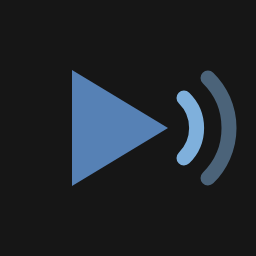
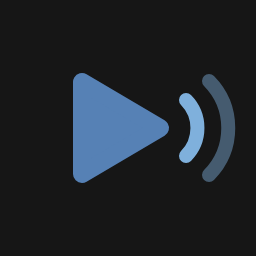
v0.2.5: full brand pass
Banner, social card, and player product shot (HTML/SVG sources in assets/,
rendered via Playwright); refined icon; branded README with badges; repo
manifest gains repository/homepage/bugs. Strip absolute build paths from the
webview bundle so no local filesystem paths ship in the vsix; assets/
excluded from the package.

diff --git a/assets/player.html b/assets/player.html
@@ -1,0 +1,116 @@
+<!doctype html>
+<html>
+<head>
+<meta charset="utf-8" />
+<style>
+  /* Mirror of the VS Code dark-modern theme variables the real player consumes,
+     with narrado's dusk blue as the action color. The player markup/styles below
+     match src/webview/player.ts + media/player.css. */
+  :root {
+    --vscode-editor-background: #1f1f1f;
+    --vscode-foreground: #cccccc;
+    --vscode-font-family: -apple-system, BlinkMacSystemFont, "Segoe UI", sans-serif;
+    --vscode-font-size: 13px;
+    --vscode-descriptionForeground: #9d9d9d;
+    --vscode-button-background: #5681b5;
+    --vscode-button-foreground: #ffffff;
+    --vscode-button-hoverBackground: #6890c2;
+    --vscode-button-secondaryBackground: #3a3d41;
+    --vscode-button-secondaryForeground: #cccccc;
+    --vscode-dropdown-background: #313131;
+    --vscode-dropdown-foreground: #cccccc;
+    --vscode-dropdown-border: #3c3c3c;
+    --vscode-widget-border: #3c3c3c;
+    --vscode-list-hoverBackground: #2a2d2e;
+    --vscode-list-activeSelectionBackground: rgba(86, 129, 181, 0.32);
+    --vscode-list-activeSelectionForeground: #ffffff;
+    --vscode-focusBorder: #5681b5;
+  }
+  html, body { margin: 0; padding: 0; background: #161616; }
+  .stage { width: 960px; padding: 36px; box-sizing: border-box; }
+  .window {
+    border: 1px solid #2e2e2e; border-radius: 12px; overflow: hidden;
+    box-shadow: 0 24px 60px rgba(0, 0, 0, 0.5);
+    background: var(--vscode-editor-background);
+  }
+  .chrome { display: flex; gap: 8px; padding: 13px 16px; background: #242424; border-bottom: 1px solid #2e2e2e; }
+  .dot { width: 12px; height: 12px; border-radius: 50%; }
+
+  /* === media/player.css === */
+  .body-clone {
+    background: var(--vscode-editor-background); color: var(--vscode-foreground);
+    font-family: var(--vscode-font-family); font-size: var(--vscode-font-size);
+  }
+  #app {
+    max-width: 560px; height: 560px; box-sizing: border-box; margin: 0 auto;
+    padding: 24px 16px 12px; display: flex; flex-direction: column; gap: 12px;
+  }
+  #title { margin: 0; font-size: 1.3em; font-weight: 600; overflow-wrap: anywhere; }
+  #status { min-height: 1.4em; color: var(--vscode-descriptionForeground); font-variant-numeric: tabular-nums; }
+  #controls { display: flex; align-items: center; gap: 12px; }
+  #controls button {
+    border: none; border-radius: 50%; cursor: pointer;
+    background: var(--vscode-button-background); color: var(--vscode-button-foreground);
+    display: inline-flex; align-items: center; justify-content: center;
+  }
+  #play { width: 56px; height: 56px; font-size: 22px; }
+  #stop {
+    width: 36px; height: 36px; font-size: 14px;
+    background: var(--vscode-button-secondaryBackground); color: var(--vscode-button-secondaryForeground);
+  }
+  #progress { margin-left: auto; color: var(--vscode-descriptionForeground); font-variant-numeric: tabular-nums; white-space: nowrap; }
+  #options { display: flex; gap: 8px; }
+  #options select {
+    flex: 1; min-width: 0; padding: 4px 6px;
+    background: var(--vscode-dropdown-background); color: var(--vscode-dropdown-foreground);
+    border: 1px solid var(--vscode-dropdown-border); border-radius: 2px;
+  }
+  #transcript { flex: 1; min-height: 0; overflow-y: hidden; border-top: 1px solid var(--vscode-widget-border); padding-top: 8px; }
+  .line { padding: 4px 8px; border-radius: 4px; cursor: pointer; line-height: 1.45; color: var(--vscode-descriptionForeground); opacity: 0.55; }
+  .line.ready { opacity: 1; color: var(--vscode-foreground); }
+  .line.active { background: var(--vscode-list-activeSelectionBackground); color: var(--vscode-list-activeSelectionForeground); opacity: 1; }
+</style>
+</head>
+<body>
+<div class="stage">
+  <div class="window">
+    <div class="chrome">
+      <div class="dot" style="background:#ff5f57"></div>
+      <div class="dot" style="background:#febc2e"></div>
+      <div class="dot" style="background:#28c840"></div>
+    </div>
+    <div class="body-clone">
+      <div id="app">
+        <h1 id="title">README.md</h1>
+        <div id="status">playing</div>
+        <div id="controls">
+          <button id="play">❚❚</button>
+          <button id="stop">■</button>
+          <span id="progress">4 / 14</span>
+        </div>
+        <div id="options">
+          <select><option>1×</option></select>
+          <select><option>Heart (US female)</option></select>
+        </div>
+        <div id="transcript">
+          <div class="line ready">narrado.</div>
+          <div class="line ready">Press play on your markdown.</div>
+          <div class="line ready">Narrado adds a play button to every markdown editor in VS Code and Cursor.</div>
+          <div class="line ready active">The document is read aloud with a natural neural voice, generated entirely on your machine.</div>
+          <div class="line ready">No cloud, no API keys, no accounts.</div>
+          <div class="line ready">Features.</div>
+          <div class="line ready">Play button in the editor title bar of any markdown file.</div>
+          <div class="line ready">On-device text to speech, free and private.</div>
+          <div class="line">Live transcript: the line being read is highlighted as it is spoken.</div>
+          <div class="line">Click any line in the transcript to jump playback there.</div>
+          <div class="line">Starts speaking after the first sentence, no waiting for the whole document.</div>
+          <div class="line">Pause, resume, playback speed, and 25 plus voices.</div>
+          <div class="line">Install.</div>
+          <div class="line">Download the latest release and install from VSIX.</div>
+        </div>
+      </div>
+    </div>
+  </div>
+</div>
+</body>
+</html>

diff --git a/assets/social.html b/assets/social.html
@@ -1,0 +1,62 @@
+<!doctype html>
+<html>
+<head>
+<meta charset="utf-8" />
+<style>
+  html, body { margin: 0; padding: 0; }
+  .card {
+    width: 1280px; height: 640px; background: #161616;
+    position: relative; overflow: hidden;
+    font-family: -apple-system, BlinkMacSystemFont, "Segoe UI", sans-serif;
+    display: flex; flex-direction: column; align-items: center; justify-content: center;
+  }
+  .glow {
+    position: absolute; inset: 0;
+    background: radial-gradient(820px 520px at 50% 38%, rgba(86, 129, 181, 0.18), transparent 68%);
+  }
+  .lockup { display: flex; align-items: center; gap: 34px; z-index: 1; }
+  h1 { margin: 0; font-size: 124px; font-weight: 700; letter-spacing: -0.035em; color: #edf1f6; }
+  .tagline {
+    margin: 26px 0 0; z-index: 1;
+    font: 500 30px/1 ui-monospace, "SF Mono", SFMono-Regular, Menlo, monospace;
+    color: #7fb0dc;
+  }
+  .sub { margin: 22px 0 0; z-index: 1; font-size: 24px; font-weight: 500; color: #8b94a3; letter-spacing: 0.01em; }
+  .sub b { color: #c3cdd9; font-weight: 600; }
+  .wave {
+    position: absolute; bottom: 0; left: 0; right: 0; height: 96px;
+    display: flex; align-items: flex-end; justify-content: center; gap: 14px;
+  }
+  .bar { width: 10px; border-radius: 6px 6px 0 0; }
+</style>
+</head>
+<body>
+<div class="card">
+  <div class="glow"></div>
+  <div class="lockup">
+    <svg width="150" height="150" viewBox="0 0 256 256">
+      <path d="M64 72 L64 184 L162 128 Z" fill="#5681b5" stroke="#5681b5" stroke-width="20" stroke-linejoin="round"/>
+      <path d="M192 96 a44 44 0 0 1 0 64" stroke="#7fb0dc" stroke-width="16" stroke-linecap="round" fill="none"/>
+      <path d="M218 74 a76 76 0 0 1 0 108" stroke="#7fb0dc" stroke-width="16" stroke-linecap="round" fill="none" opacity="0.45"/>
+    </svg>
+    <h1>narrado</h1>
+  </div>
+  <p class="tagline">press play on your markdown.</p>
+  <p class="sub">on-device text-to-speech for <b>VS Code</b> &amp; <b>Cursor</b> — no cloud, no API keys</p>
+  <div class="wave" id="wave"></div>
+  <script>
+    const wave = document.getElementById("wave");
+    for (let i = 0; i < 44; i++) {
+      const b = document.createElement("div");
+      b.className = "bar";
+      const h = 14 + Math.abs(Math.sin(i * 0.55)) * 62;
+      b.style.height = h.toFixed(0) + "px";
+      b.style.background = i % 2 ? "#7fb0dc" : "#5681b5";
+      const edge = Math.min(i, 43 - i);
+      b.style.opacity = Math.min(0.55, 0.08 + edge * 0.045).toFixed(2);
+      wave.append(b);
+    }
+  </script>
+</div>
+</body>
+</html>

diff --git a/assets/banner.html b/assets/banner.html
@@ -1,0 +1,60 @@
+<!doctype html>
+<html>
+<head>
+<meta charset="utf-8" />
+<style>
+  html, body { margin: 0; padding: 0; }
+  .banner {
+    width: 1600px; height: 400px; background: #161616;
+    position: relative; overflow: hidden;
+    font-family: -apple-system, BlinkMacSystemFont, "Segoe UI", sans-serif;
+  }
+  .glow {
+    position: absolute; inset: 0;
+    background: radial-gradient(900px 460px at 22% 45%, rgba(86, 129, 181, 0.16), transparent 65%);
+  }
+  .mark { position: absolute; left: 100px; top: 50%; transform: translateY(-50%); }
+  .text { position: absolute; left: 318px; top: 50%; transform: translateY(-52%); }
+  h1 { margin: 0; font-size: 108px; font-weight: 700; letter-spacing: -0.035em; color: #edf1f6; }
+  p {
+    margin: 12px 0 0 4px;
+    font: 500 27px/1 ui-monospace, "SF Mono", SFMono-Regular, Menlo, monospace;
+    color: #7fb0dc;
+  }
+  .wave {
+    position: absolute; right: 0; top: 0; height: 100%;
+    display: flex; align-items: center; gap: 16px; padding-right: 96px;
+  }
+  .bar { width: 11px; border-radius: 6px; }
+</style>
+</head>
+<body>
+<div class="banner">
+  <div class="glow"></div>
+  <div class="mark">
+    <svg width="180" height="180" viewBox="0 0 256 256">
+      <path d="M64 72 L64 184 L162 128 Z" fill="#5681b5" stroke="#5681b5" stroke-width="20" stroke-linejoin="round"/>
+      <path d="M192 96 a44 44 0 0 1 0 64" stroke="#7fb0dc" stroke-width="16" stroke-linecap="round" fill="none"/>
+      <path d="M218 74 a76 76 0 0 1 0 108" stroke="#7fb0dc" stroke-width="16" stroke-linecap="round" fill="none" opacity="0.45"/>
+    </svg>
+  </div>
+  <div class="text">
+    <h1>narrado</h1>
+    <p>press play on your markdown.</p>
+  </div>
+  <div class="wave" id="wave"></div>
+  <script>
+    const heights = [38, 86, 140, 196, 152, 104, 170, 220, 178, 122, 76, 110, 64, 40];
+    const wave = document.getElementById("wave");
+    heights.forEach((h, i) => {
+      const b = document.createElement("div");
+      b.className = "bar";
+      b.style.height = h + "px";
+      b.style.background = i % 2 ? "#7fb0dc" : "#5681b5";
+      b.style.opacity = Math.max(0.10, 0.95 - i * 0.062).toFixed(2);
+      wave.append(b);
+    });
+  </script>
+</div>
+</body>
+</html>

diff --git a/README.md b/README.md
@@ -1,34 +1,51 @@
-# narrado
+<div align="center">
 
-> Press play on your markdown.
+![narrado — press play on your markdown](assets/banner.png)
 
-Narrado adds a ▶ button to every markdown editor in VS Code and Cursor. Press it and the
-document is read aloud with a natural neural voice — generated entirely on your machine by
-[Kokoro-82M](https://huggingface.co/onnx-community/Kokoro-82M-v1.0-ONNX). No cloud, no API
-keys, no accounts.
+**On-device text-to-speech for VS Code and Cursor — no cloud, no API keys, no accounts.**
+
+[![Release](https://img.shields.io/github/v/release/SethMed7/narrado?color=5681b5&label=release)](https://github.com/SethMed7/narrado/releases/latest)
+[![License: MIT](https://img.shields.io/badge/license-MIT-7fb0dc)](LICENSE)
+[![Editors](https://img.shields.io/badge/VS%20Code%20%C2%B7%20Cursor-1.90%2B-161616)](#install)
+[![TTS](https://img.shields.io/badge/Kokoro--82M-on--device-5681b5)](https://huggingface.co/onnx-community/Kokoro-82M-v1.0-ONNX)
+
+</div>
+
+Narrado adds a ▶ button to every markdown file. Press it and the document is read aloud
+with a natural neural voice — generated entirely on your machine by
+[Kokoro-82M](https://huggingface.co/onnx-community/Kokoro-82M-v1.0-ONNX) running inside
+the editor. Your text never leaves your computer.
+
+<div align="center">
+
+![The narrado player — live transcript, click any line to jump](assets/player.png)
+
+</div>
 
 ## Features
 
-- ▶ play button in the editor title bar of any markdown file
-- On-device TTS via [kokoro-js](https://github.com/hexgrad/kokoro) — free and private
-- Markdown-aware narration: links read as their text, code blocks are skipped (configurable),
-  tables read row by row, URLs never read aloud
-- Starts speaking after the first sentence — no waiting for the whole document to render
-- Live transcript in the player: the line being read is highlighted as it's spoken
-- Click any line in the transcript to jump playback there
-- Pause / resume, playback speed, and 25+ voices (US/British, male/female)
+- **▶ everywhere** — status-bar button, editor title bar, and command palette
+  (`Narrado: Read Aloud`); works from source view *and* rendered preview
+- **On-device TTS** via [kokoro-js](https://github.com/hexgrad/kokoro) — free, private,
+  works offline after the first model download
+- **Live transcript** — the line being read is highlighted as it's spoken; **click any
+  line to jump** playback there
+- **Markdown-aware narration** — links read as their text, code blocks skipped
+  (configurable), tables read row by row, URLs never read aloud
+- **Instant start** — speaks after the first sentence; the rest renders while you listen
+- **Pause / resume, playback speed, 25+ voices** (US/British, male/female)
 
 ## Install
 
 Download the latest `.vsix` from
-[Releases](https://github.com/SethMed7/narrado/releases/latest), then either:
+[**Releases**](https://github.com/SethMed7/narrado/releases/latest), then either:
 
 - **In the editor**: Extensions panel → `…` menu → **Install from VSIX…** → pick the file, or
 - **Terminal** (use the full path to the file):
 
 ```sh
-cursor --install-extension /path/to/narrado-0.2.4.vsix   # Cursor
-code --install-extension /path/to/narrado-0.2.4.vsix     # VS Code
+cursor --install-extension /path/to/narrado-0.2.5.vsix   # Cursor
+code --install-extension /path/to/narrado-0.2.5.vsix     # VS Code
 ```
 
 Then **reload the window** (Cmd+Shift+P → "Developer: Reload Window") — already-open
@@ -58,8 +75,14 @@ bun run build      # bundles extension host (node/cjs) + webview player (browser
 bun run package    # produces narrado-x.y.z.vsix
 ```
 
-Press F5 in VS Code to launch an Extension Development Host.
+Press F5 in VS Code to launch an Extension Development Host. Brand assets
+(banner, social card, player shot) are authored as HTML/SVG in `assets/` and rendered
+with `bunx playwright screenshot`.
 
 ## License
 
 MIT
+
+<div align="center">
+<sub>▶ <b>narrado</b> · dusk blue on near-black · built with <a href="https://bun.sh">Bun</a> + <a href="https://github.com/hexgrad/kokoro">Kokoro</a></sub>
+</div>